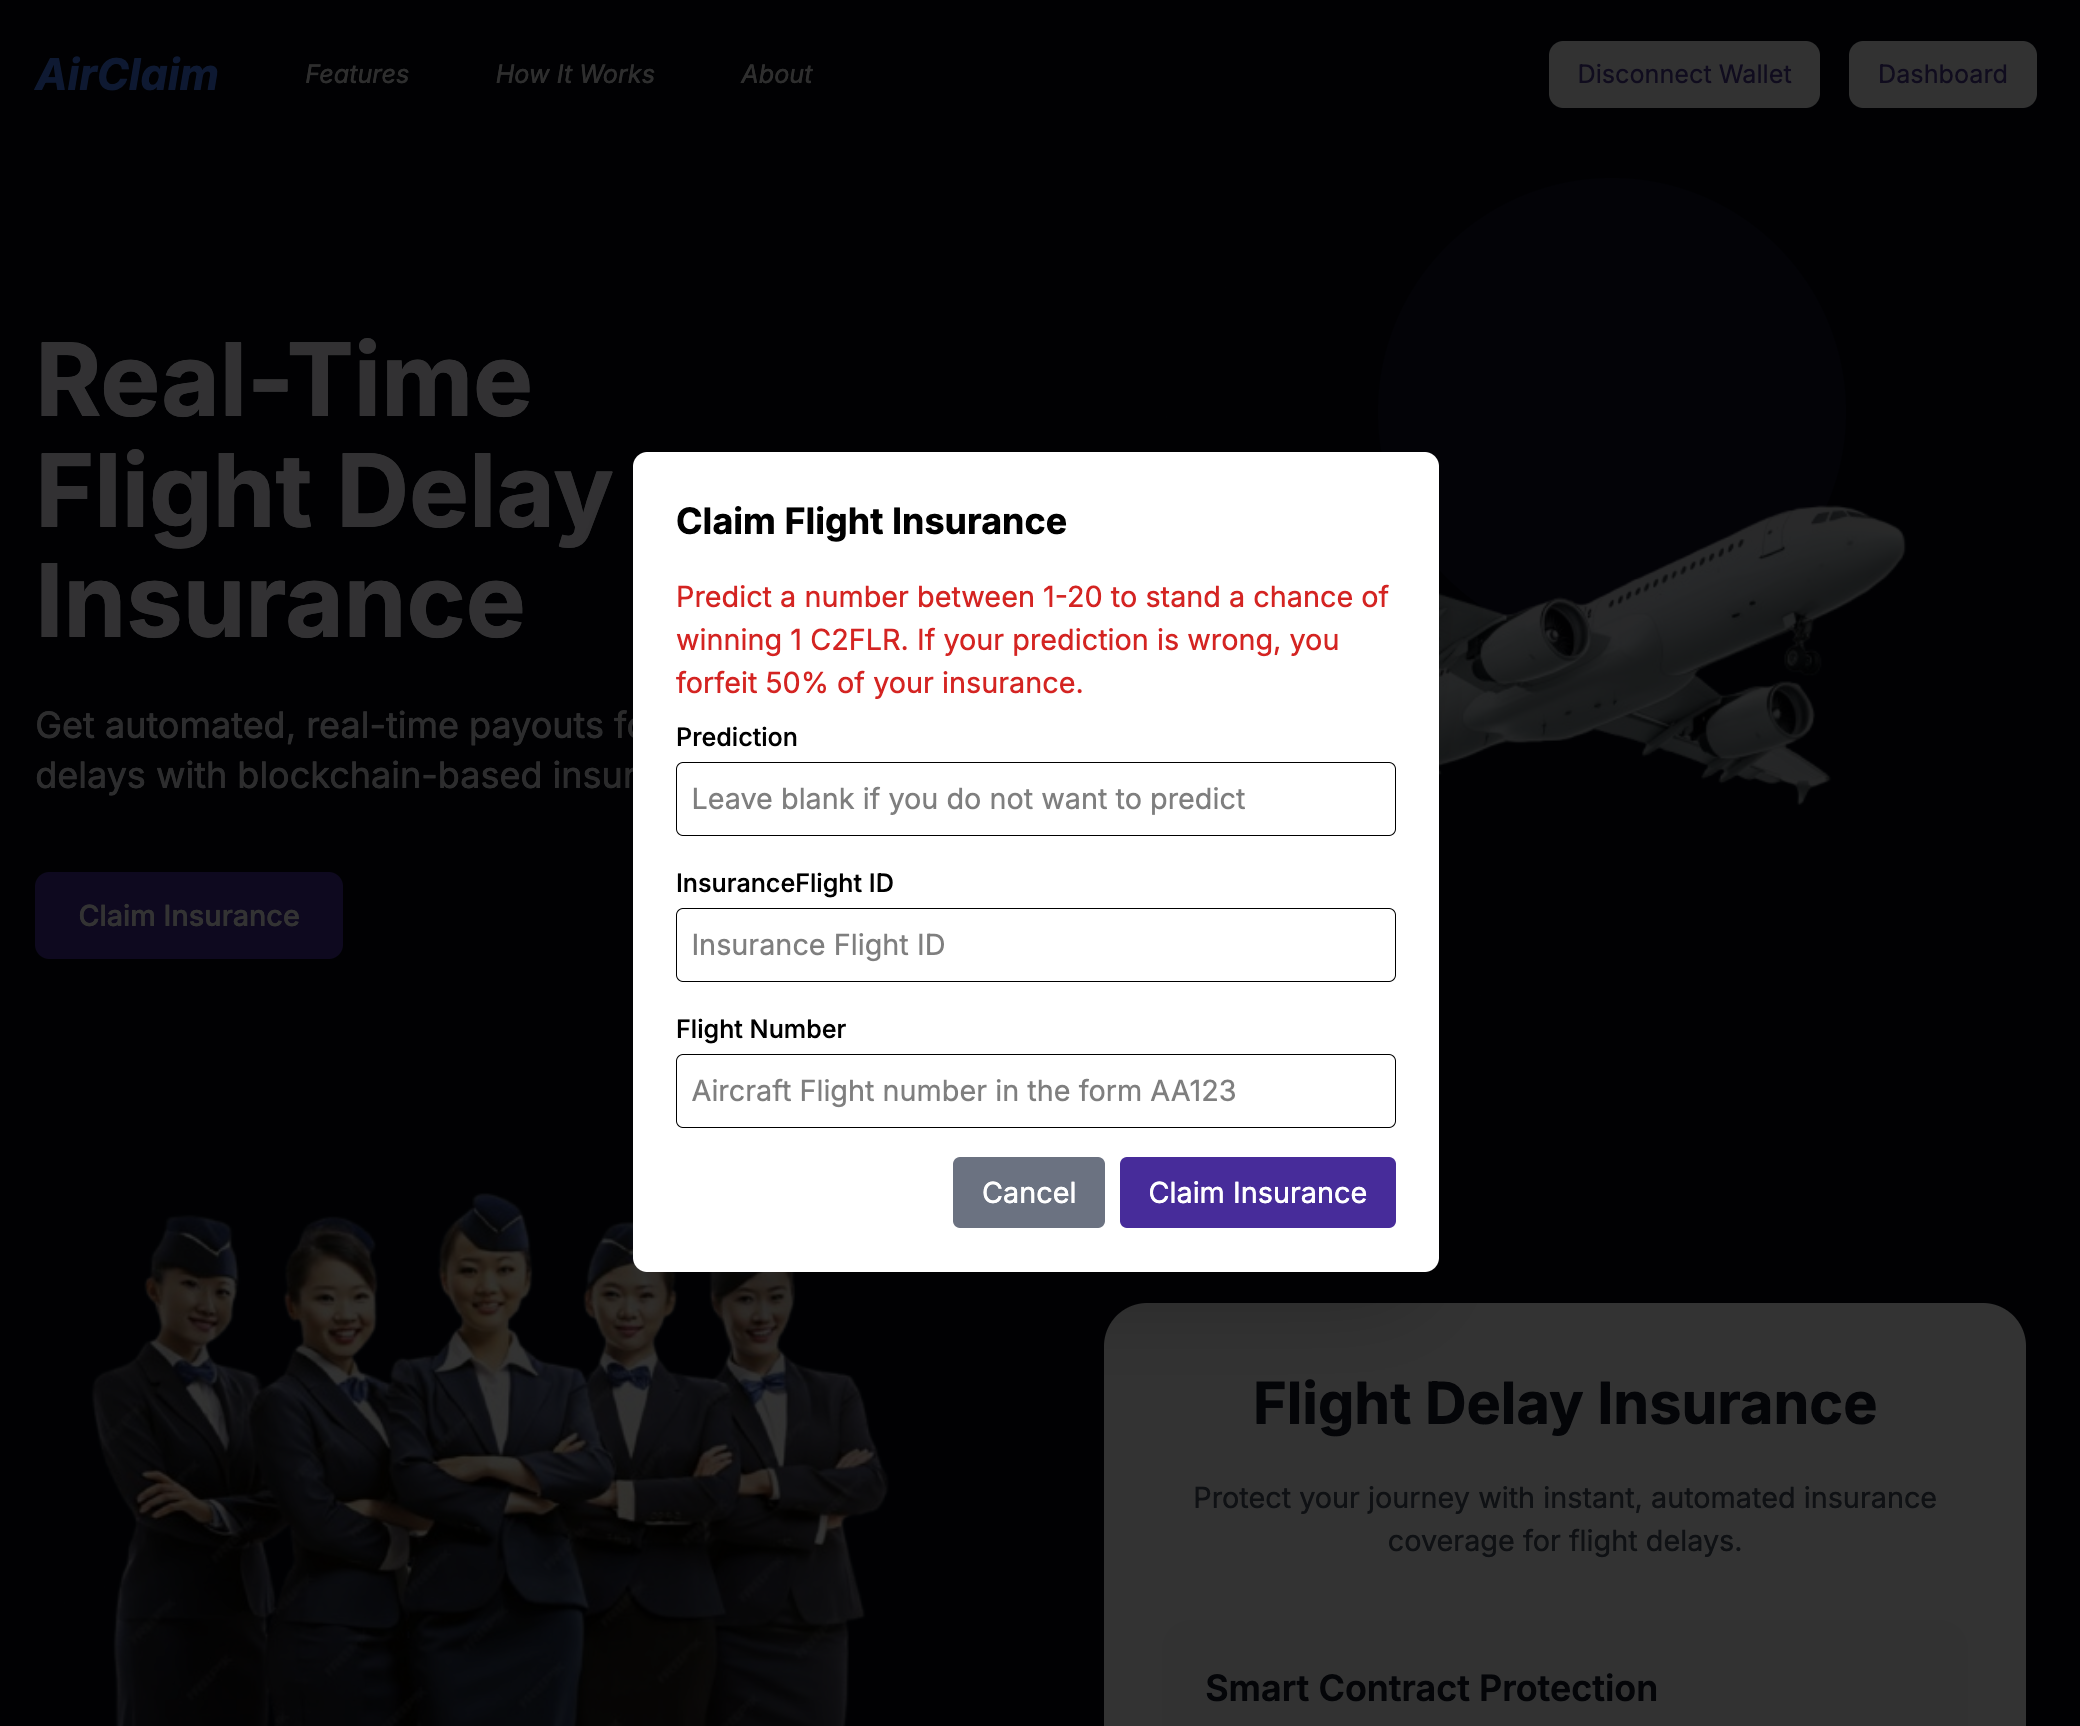
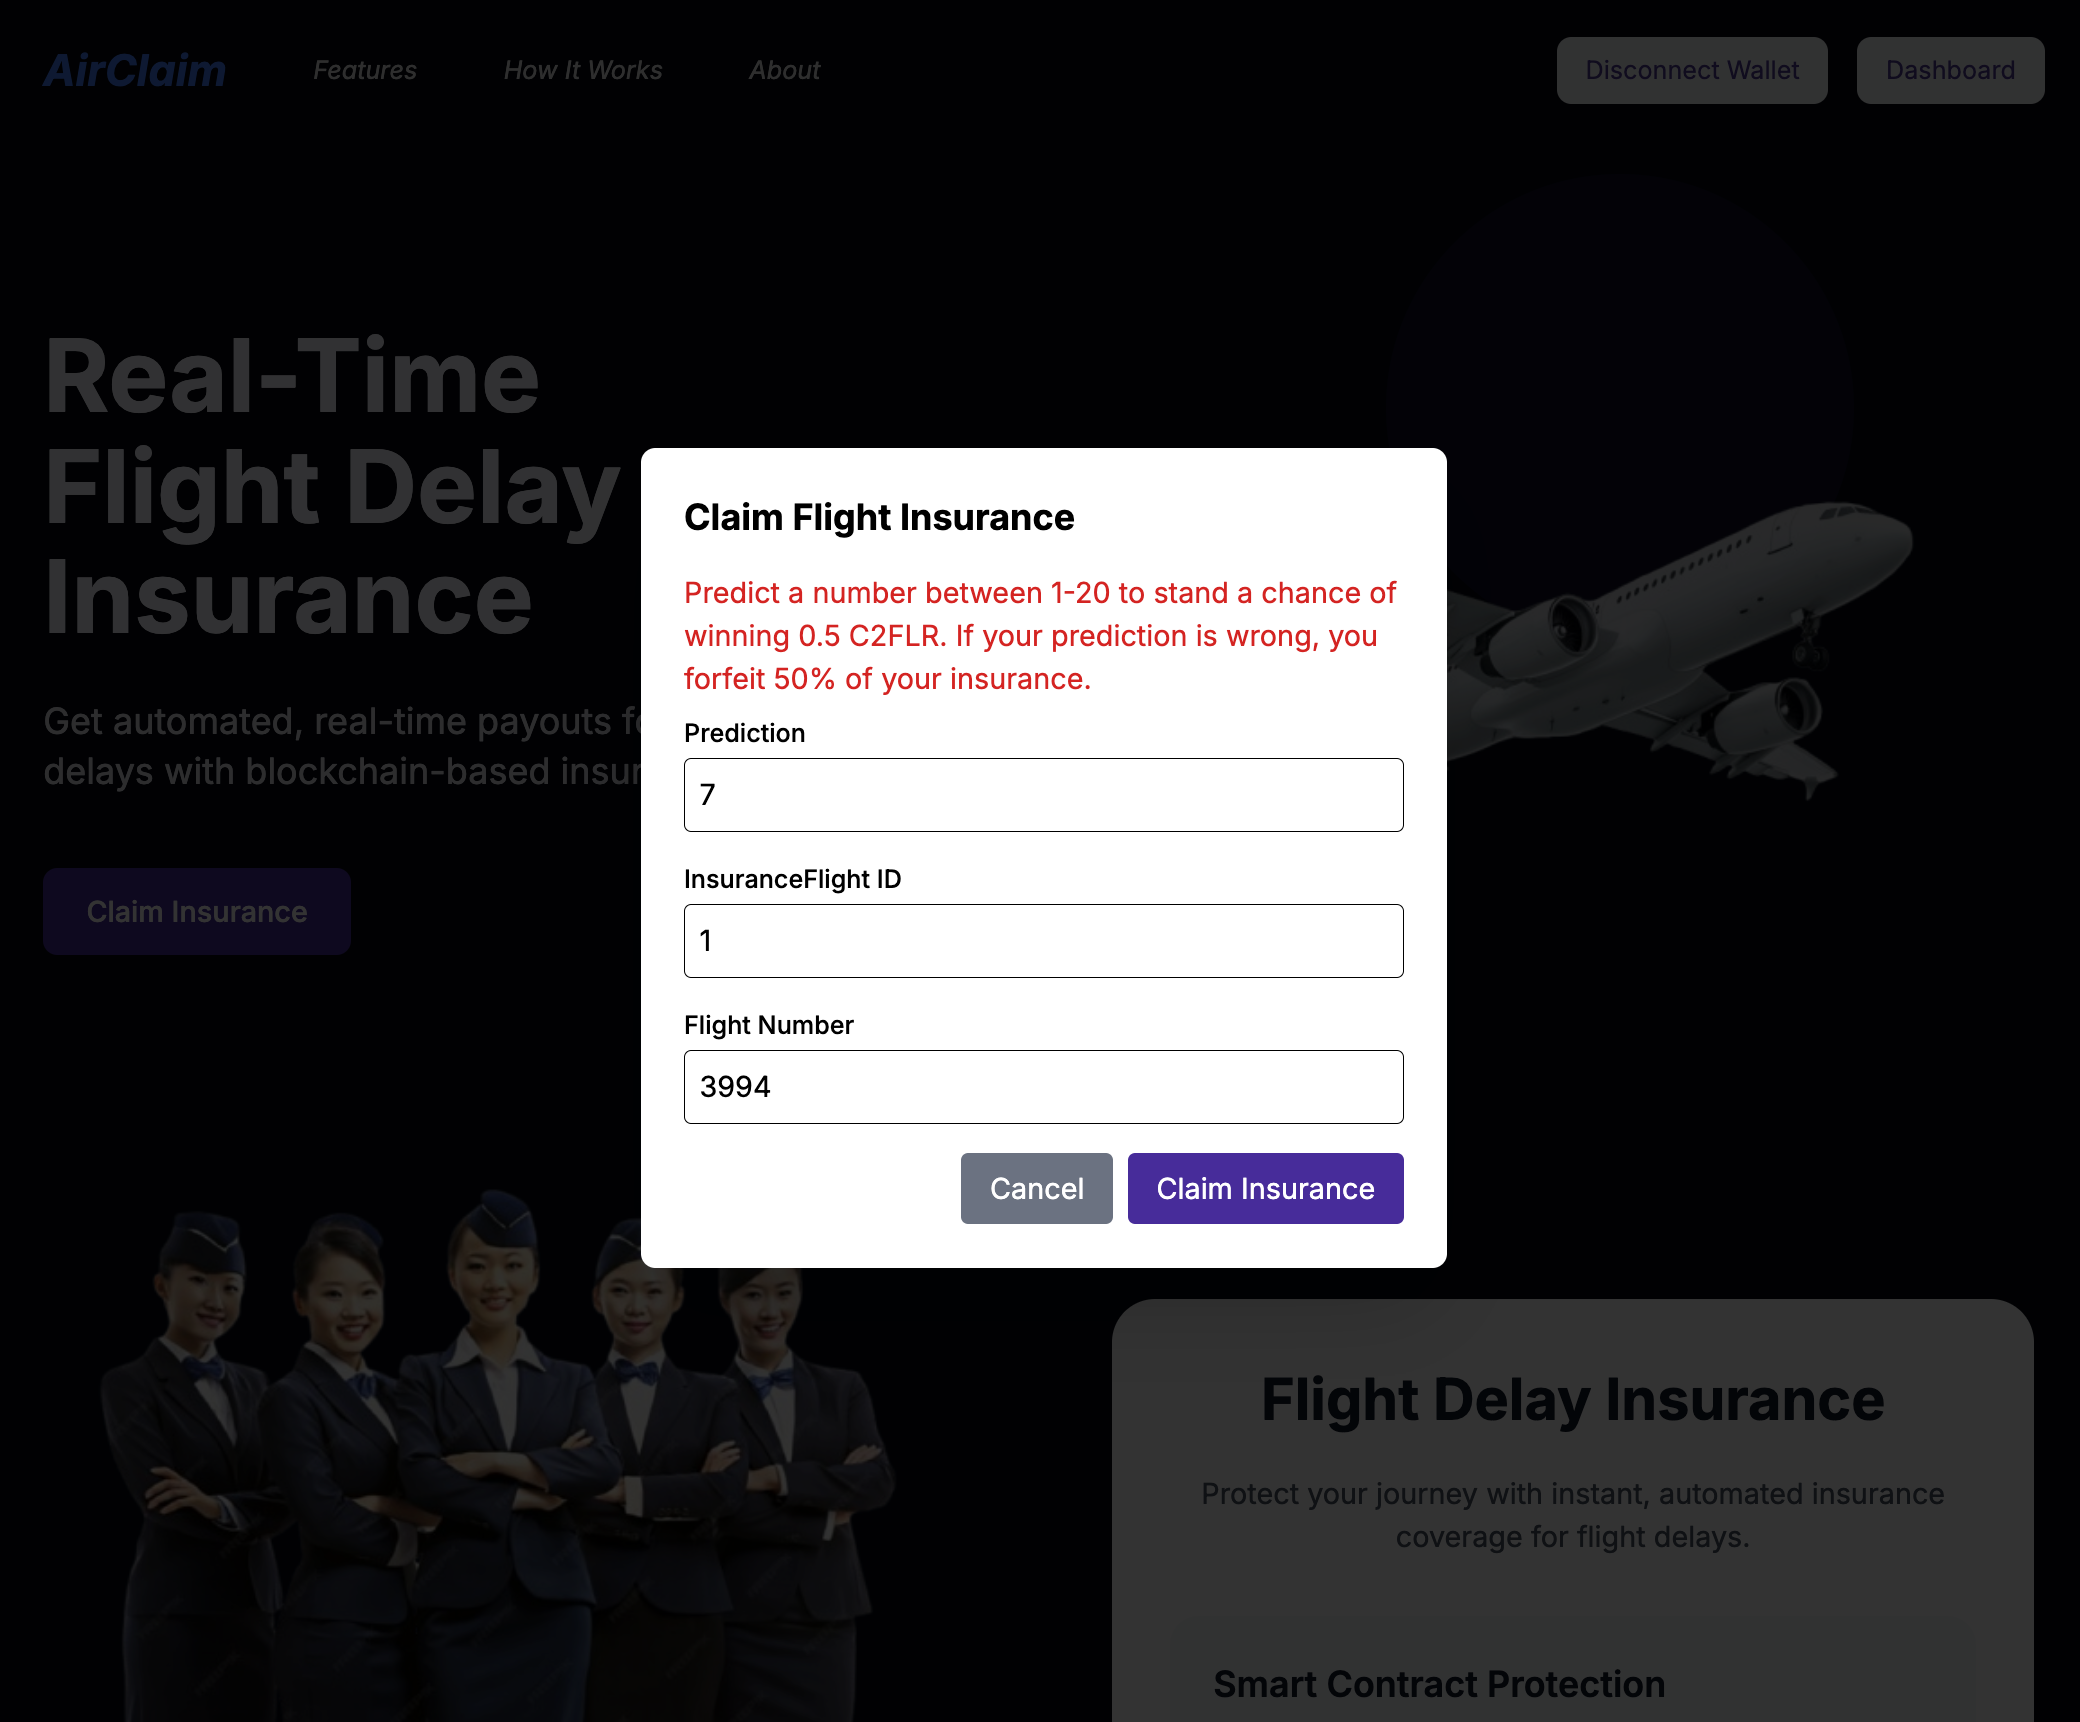
change image

diff --git a/frontend/app/components/claimInsurance.tsx b/frontend/app/components/claimInsurance.tsx
@@ -57,7 +57,7 @@ const CustomModal: React.FC<InsureFlightModalProps> = ({ isOpen, onClose, onSubm
           <h2 className="text-xl text-black font-bold mb-4">Claim Flight Insurance</h2>
           {error && <div className="text-red-600 mb-2">Please note that if the flight</div>}  
           <div>
-          <div className="text-red-600 my-2">Predict a number between 1-20 to stand a chance of winning 1 C2FLR. If your prediction is wrong, you forfeit 50% of your insurance.</div>
+          <div className="text-red-600 my-2">Predict a number between 1-20 to stand a chance of winning 0.5 C2FLR. If your prediction is wrong, you forfeit 50% of your insurance.</div>
             <label className="block  text-black text-sm font-medium mb-1">Prediction</label>
             <input
               className="w-full p-2  text-black border border-black rounded"
